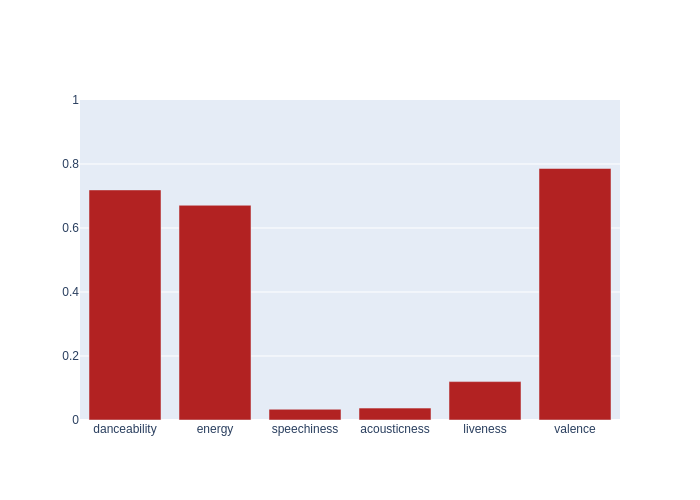
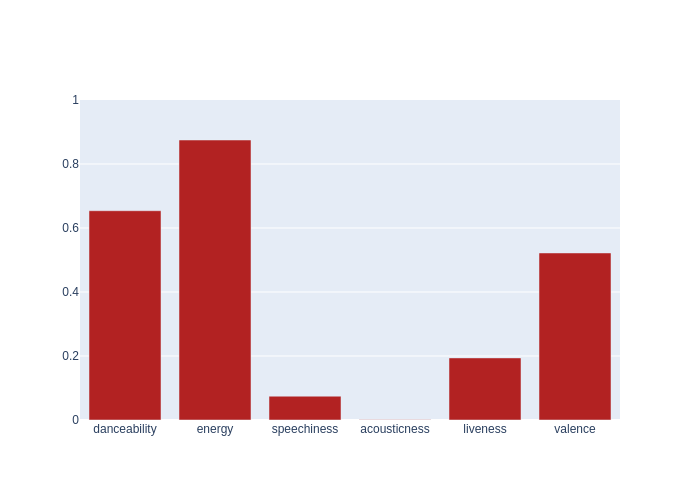
Automated README update

diff --git a/README.md b/README.md
@@ -4,7 +4,7 @@ Automated music metrics for fun, updated hourly.
 
 ## Spotify
 
-- currently listening to **Echosmith - Cool Kids**
+- currently listening to **Machine Gun Kelly - forget me too (feat. Halsey)**
 
 - **3099** liked songs
 - **33** playlists
